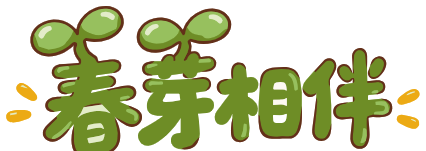
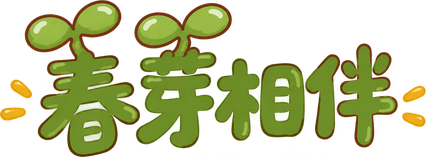
换上更清晰的「春芽相伴」标题切图，高度改为 159。 (#10)
用 426×159 正确稿覆盖原标题，top 上移 4px 让视觉中心仍在副文案上方，并清掉紧裁带上的副文案残点。

diff --git a/chunyai/index.html b/chunyai/index.html
@@ -12,7 +12,7 @@
       <img class="logo" src="assets/01_logo_chunya.png" alt="春芽" width="249" height="102">
       <img class="mascot" src="assets/02_mascot_group.png" alt="春芽吉祥物" width="333" height="355">
       <h1 class="title">
-        <img src="assets/03_title_春芽相伴.png" alt="春芽相伴" width="426" height="151">
+        <img src="assets/03_title_春芽相伴.png" alt="春芽相伴" width="426" height="159">
       </h1>
       <p class="subtitle">- 把训练带回家！-</p>
       <button class="btn-start" type="button">开始</button>

diff --git a/chunyai/login.css b/chunyai/login.css
@@ -85,12 +85,12 @@ body {
   z-index: 5;
 }
 
-/* 843,275 → 1269,426 */
+/* 843,271 → 1269,430 */
 .title {
   left: 843px;
-  top: 275px;
+  top: 271px;
   width: 426px;
-  height: 151px;
+  height: 159px;
   margin: 0;
   z-index: 8;
 }
